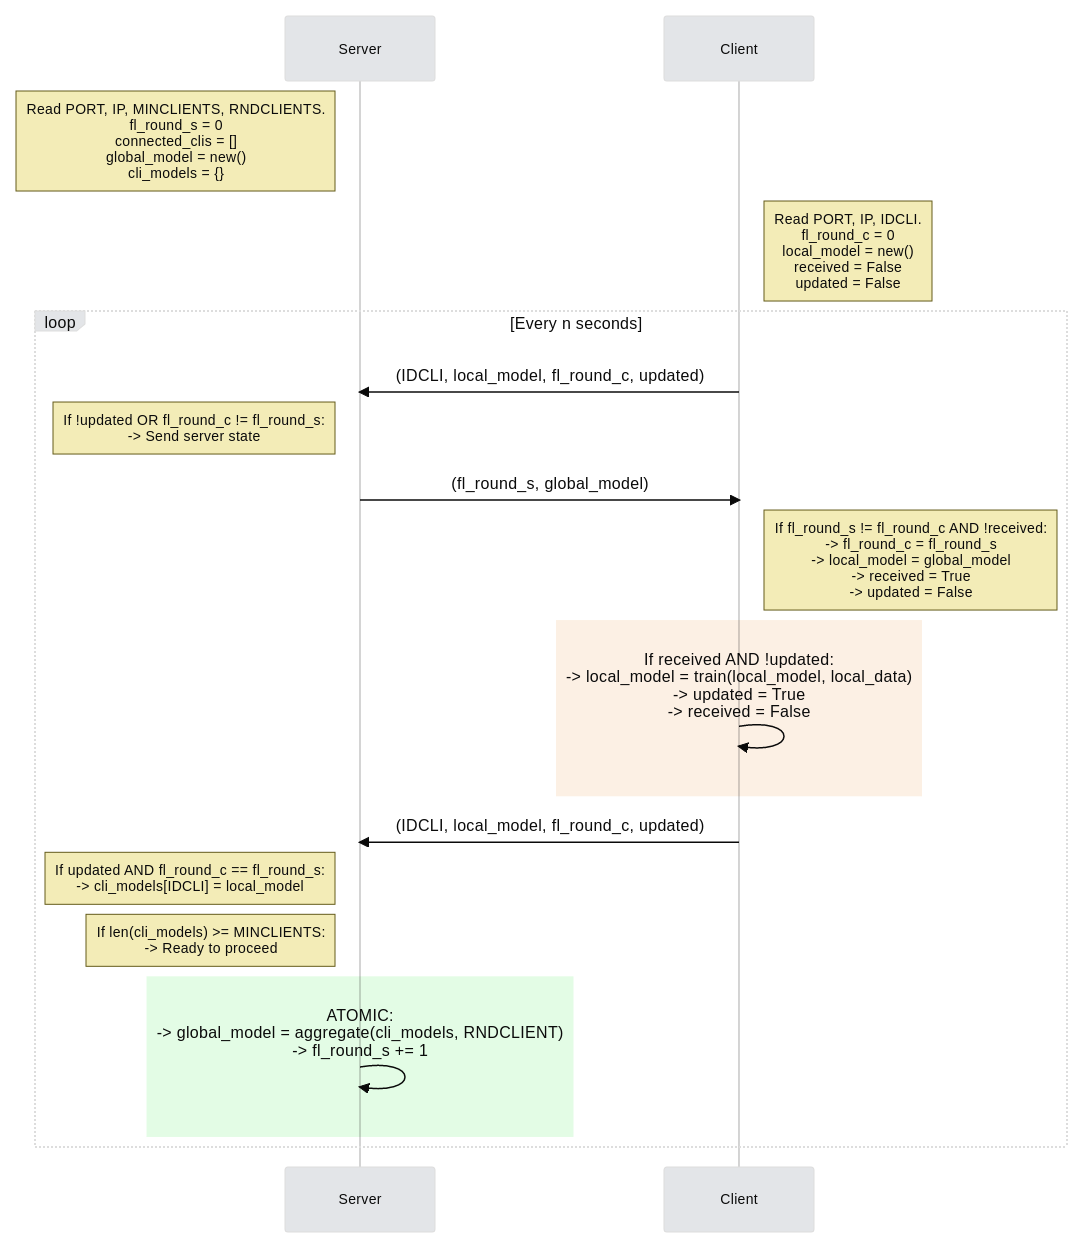
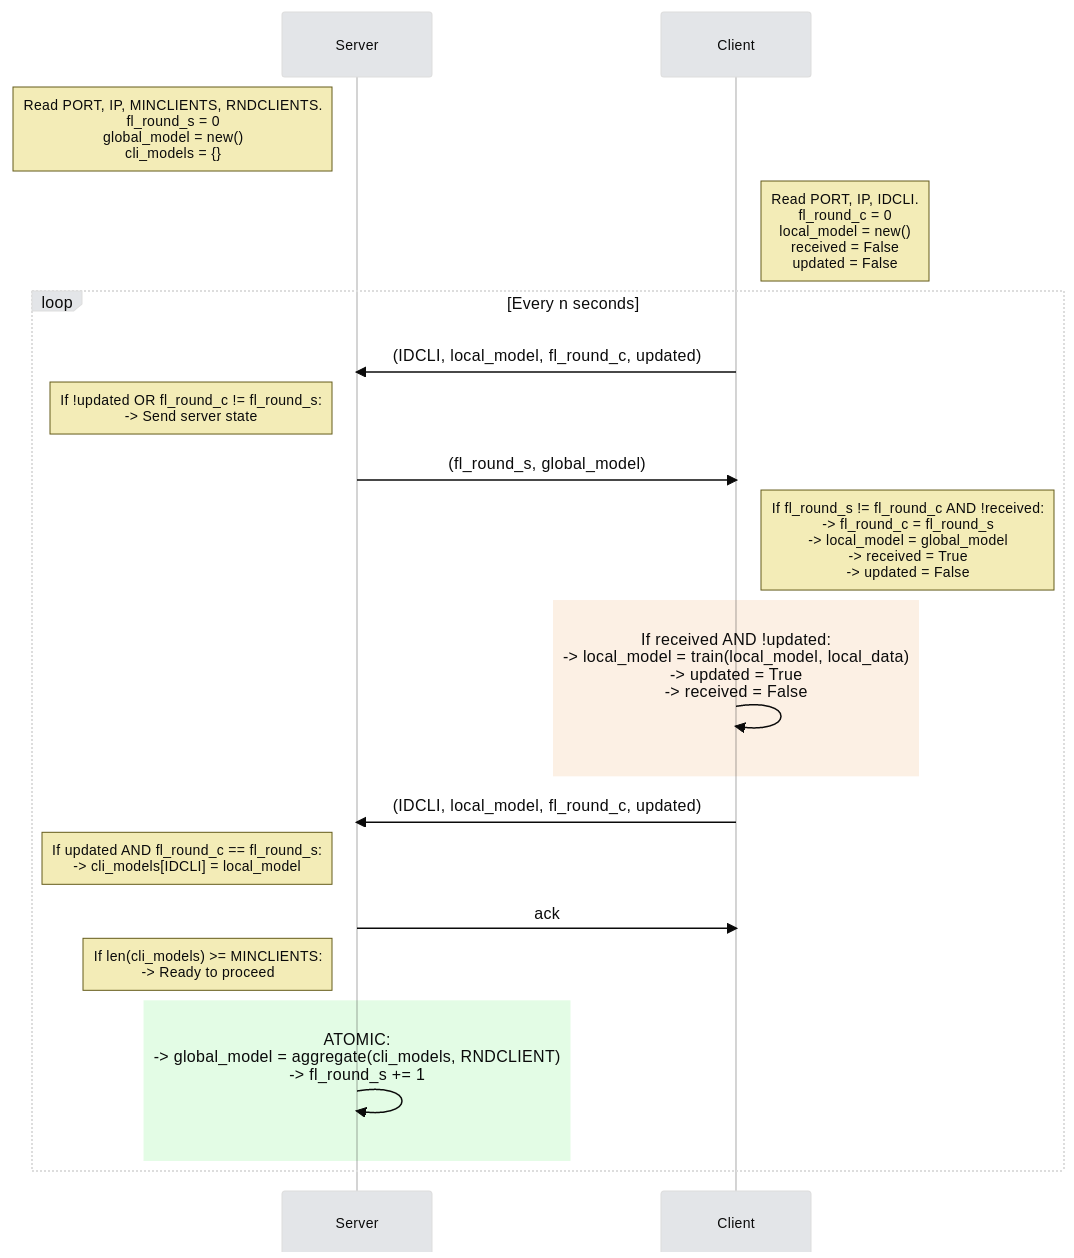
docs

diff --git a/README.md b/README.md
@@ -24,7 +24,19 @@ realistic, such as:
    points would be added periodically.
 
 
-## Setup
+
+## Dependencies
+
+Make sure the package `liblzma-dev` is installed in your system.
+(`sudo apt install liblzma-dev`)
+
+Pytorch CPU needs to be installed following the instructions provided
+on the official website:
+
+```
+pip install torch==1.8.1+cpu torchvision==0.9.1+cpu torchaudio==0.8.1 -f https://download.pytorch.org/whl/torch_stable.html
+
+```
 
 Before continuing please make sure you have setup the correct paths in
 `ryofl/common.py`.
@@ -41,12 +53,17 @@ Testing is done via `pytest`.  Tests will be automatically discovered by looking
 in the `tests/` directory for files and functions having `test` as a prefix.
 
 
-## Data
+## Obtaining the datasets
 
 Use `python ryofl/generate_datasets.py` to download the datasets. The location
-where to download the datasets can be changed in the header of the file. 
+of the downloaded files is specified in `ryofl/common.py`.
 
-**Note this is the only part of the code which depends on Tensorflow**
+This script will also split the datasets into per-client chunks, based on the
+specific logic of each dataset, and populate sub-directories with the chunk
+numpy files.
+
+**Note:** this is the only part of the code which depends on
+Tensorflow-Federated.
 
 
 ## Training protocol
@@ -62,7 +79,7 @@ sequenceDiagram
     participant S as Server
 	participant C as Client
 
-	Note left of S: Read PORT, IP, MINCLIENTS, RNDCLIENTS.<br/>fl_round_s = 0<br/>connected_clis = []<br/>global_model = new()<br/>cli_models = {}
+	Note left of S: Read PORT, IP, MINCLIENTS, RNDCLIENTS.<br/>fl_round_s = 0<br/>global_model = new()<br/>cli_models = {}
 	
 	Note right of C: Read PORT, IP, IDCLI. <br/>fl_round_c = 0<br/>local_model = new()<br/>received = False<br/>updated = False
 	
@@ -91,6 +108,9 @@ sequenceDiagram
 	
 	Note left of S: If updated AND fl_round_c == fl_round_s:<br/> -> cli_models[IDCLI] = local_model
 	
+	S ->> C: ack
+	
+	
 	Note left of S: If len(cli_models) >= MINCLIENTS:<br/> -> Ready to proceed<br/>
 	
 	
@@ -101,5 +121,41 @@ sequenceDiagram
 	end
 	
 	end
-
+	
 </details>
+```
+
+## Running the system
+
+### Data
+
+Generate the configuration files for the server and each client with:
+
+```
+python -m ryofl.server make-configs --dataset femnist --model_id cnn --clients 4
+```
+These files will, by default, be create in the `configs/` folder. This can be
+changed in `ryofl/common.py`.
+Configuration files are human-readable json formatted, and will also contain the
+list of data files each client should use during the training.
+
+### Server
+
+The server script can then be run with:
+```
+python -m ryofl.server fl --config configs/cfg_file_0.json  
+```
+
+By default the server will wait for a sufficient number of clients to join
+before the actual training protocol begins.
+
+
+### Clients
+
+Similarly, running the clients script will look like:
+```
+python -m ryofl.client fl --config configs/cfg_file_1.json  
+```
+
+**Note:** please be careful to assign the correct configuration file to each
+client.
